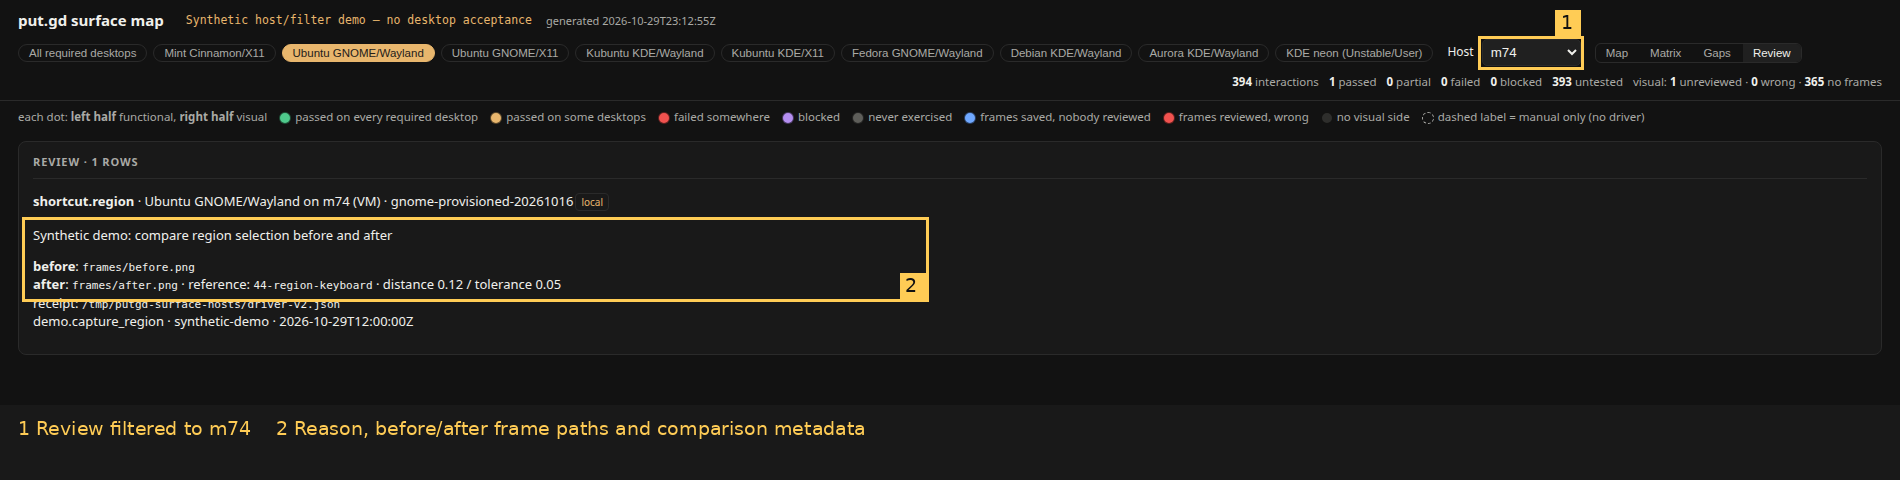
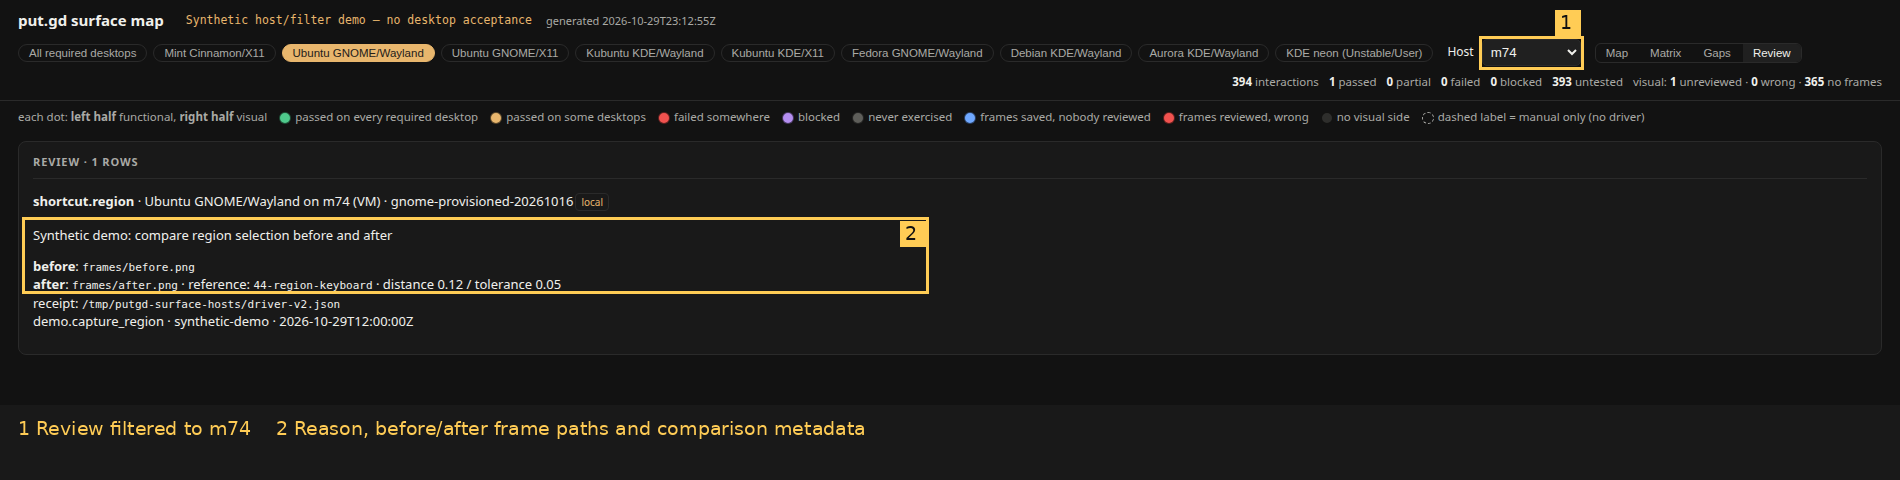
docs: correct surface map review callout and record validator fixes

Changed region(s): [[0.0, 0.5625, 0.4968, 0.6562], [0.4658, 0.4375, 0.4968, 0.5312]]

diff --git a/docs/evidence/surface-map-hosts/README.md b/docs/evidence/surface-map-hosts/README.md
@@ -4,7 +4,7 @@ Code: [PR #667](https://github.com/patrick-hudson/put.gd-desktop/pull/667), sour
 
 This is synthetic acceptance of the offline map page. No app build, lab desktop, host lock, VM, Proton or storage destination was used. Destination values are badges in synthetic receipts. These pictures establish map behavior, not desktop functionality. Browser, viewport, checks and image SHA-256 values are in [verification.json](verification.json).
 
-## Acceptance
+## Original acceptance (source cf4f4525)
 
 1. **V1 compatibility:** the original existing `_schema-example.json` is retained as [v1.json](v1.json). Before and after build output was `394 interactions, 0 passed, 0 partial, 0 failed, 0 blocked, 394 untested`. All 394 interaction verdicts and desktop summaries match. A nonempty synthetic v1 sample was also compared using the old and new Python implementations with equal summaries; [comparison receipt](v1-comparison.json). The page retains desktop chips/rollups and its default map design, with the additional host and Review controls.
 2. **Two builders and filter:** [driver-v2.json](driver-v2.json) contains the same interaction on m74 and f44. Chromium loaded the generated file directly, selected Ubuntu GNOME/Wayland and Matrix, asserted both columns, then selected m74 and asserted f44 was absent. Annotated screenshots show both cells and the filtered result. Planned guest rows without receipts remain grey; the golden-specific rows refine the planned placement. [Browser assertions](browser-checks.json).
@@ -35,3 +35,31 @@ python3 tools/lab/surface_map/surface_map.py build \
 Open `/tmp/surface-host-demo/map.html` directly in a browser. Select Ubuntu GNOME/Wayland, then Matrix. Select m74 in Host, then Review. No server or network is required. For v1, build with this directory's `v1.json`; use the base commit and its original example file for the before result.
 
 The workstation's system Python lacked pytest and ensurepip, so checks used a private temporary environment with the system Python and pytest/playwright installed through `uv pip`; no system packages or toolchain were replaced. Chromium was the existing `/usr/bin/google-chrome`. No C++ build or CTest was run for these Python/HTML changes.
+
+## Independent-validator fixes (source 05a1ef26)
+
+Code commit `05a1ef263fd764177e8164ff40987a9c23045dc2` fixes findings 1–6 on #667. The original screenshots above remain evidence for the original source; the original Review capture was re-annotated for finding 7 so box 2 and its number leave the `receipt:` line clear. The receipt pixel strip is unchanged from the raw capture, checked in [verification.json](verification.json).
+
+Current validation is **36 passed and the single allowed pre-existing `test_receipt_selectors_name_real_checks` failure** ([#661](https://github.com/patrick-hudson/put.gd-desktop/issues/661), [#662](https://github.com/patrick-hudson/put.gd-desktop/issues/662)); the run with subtest reporting recorded 418 passing subtests. `surface_map.py check` passes: 9 desktops, 22 surfaces, 394 interactions. No tests were skipped or weakened. These checks used the existing temporary Python environment described above; no C++ builds, VMs or physical desktop tests were run.
+
+| Finding | Fix and regression evidence |
+| --- | --- |
+| 1: unnamed guest failure hidden | Preserve every row backed by entries; remove only empty planned placeholders refined by named guests. `test_unnamed_guest_failure_keeps_its_row_beside_named_pass` round-trips existing v2 data and checks both cells. Chromium confirms both Matrix verdicts and the f44-filtered failed status. |
+| 2: Matrix narrowed by desktop chip | Matrix retains every desktop column, with or without a chip; the host selector still filters hosts. Chromium checks all nine v1 columns with Mint selected, and other f44 desktop columns with Ubuntu selected. |
+| 3: missing newest metadata erases evidence | Update metadata only for non-None values. `test_newer_host_verdict_preserves_nonempty_metadata` checks missing and explicit None fields, plus intentional False/empty/replacement values and timestamp ordering. |
+| 4: optional desktop gates host status, marker lost | Rows carry model `required` values. `test_host_rows_preserve_required_for_planned_and_observed_cells` checks planned and observed rows. Chromium confirms optional neon's failed/wrong verdict does not gate d69's required rollup and its popover says `(optional)`. Explicitly selecting neon still shows its verdict, matching desktop-chip semantics without a host filter. |
+| 5: stale usage | Top-level usage documents all five new mark flags, `source`, and optional import defaults supplied by receipt rows. |
+| 6: native placement accepts guest | Shared row validation rejects native plus guest with `guest cannot be used with native placement`. `test_native_placement_rejects_guest_in_entry_and_mark` checks make_entry, CLI exit 2, error text, and no coverage file written. |
+| 7: Review annotation covers receipt | Rebuilt annotations from the unchanged original screenshot, ending box 2 at y=293 and moving its number into empty space at the upper right. Receipt pixels y=298–315 match the raw capture exactly. |
+
+[Browser assertions](fix-browser-checks.json) and [source, commands, checksums and limits](fix-verification.json) retain the exact source/base identities. V1 Map, Gaps and Matrix main text, verdict buttons/colours and headers match nightly `a18d79e762dfa4780522e25d6e3f63df1b3a2258` with both All required desktops and Mint selected. Comparison normalizes only the planned Aurora label change from `Aurora KDE/Wayland (AppImage)` to `Aurora KDE/Wayland`; this is semantic compatibility, not pixel-identical styling. Raw before/after captures and the comparison snapshots remain private in `/tmp/putgd-surface-fixes/`.
+
+![V1 Matrix keeps all desktop columns with Mint selected](fix-v1-matrix-annotated.png)
+
+![Unnamed f44 failure beside the named golden pass](fix-unnamed-annotated.png)
+
+![Optional neon marker and required-only d69 rollup](fix-optional-annotated.png)
+
+The scrolled Matrix screenshot also shows a pre-existing sticky-heading overlap: the heading offset is 58px even when the toolbar is taller. This was reproduced on nightly (70px toolbar) and the fix source (77px toolbar); [#689](https://github.com/patrick-hudson/put.gd-desktop/issues/689) tracks the layout follow-up. Accessible names independently verify the two Undo cell verdicts despite the partly covered headings.
+
+To reproduce the new synthetic pages, use code commit `05a1ef263fd764177e8164ff40987a9c23045dc2`, export this evidence directory from the docs PR, and build with each of `fix-v1-nonempty.json`, `fix-unnamed-coverage.json`, and `fix-optional-coverage.json` as `--coverage FILE`, into separate fresh `--output DIR` directories. Open the generated HTML directly in Chromium at 1900×1000. For v1 compare the three views with All required desktops and Mint selected. For the unnamed case select f44 and Ubuntu, then Gaps/Matrix. For optional status select d69 and All required desktops, then open Undo's popover; select neon explicitly to inspect its failed/wrong verdict. No server is needed.
